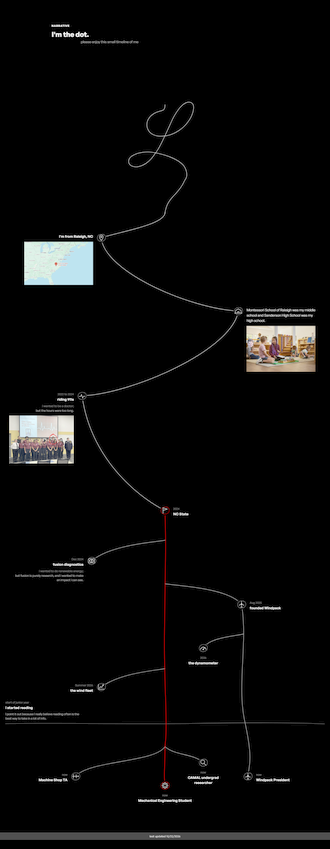
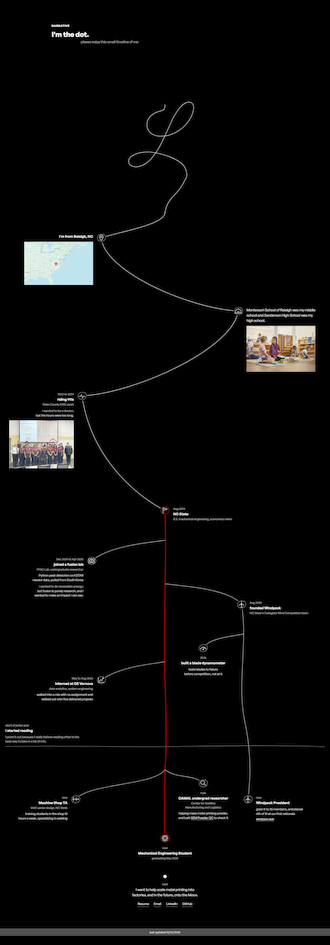
Tell recruiters where and what at each narrative stop
Every stop on the timeline now says where it happened and as what, plus one
fact from the resume: KSTAR data at the FPAC lab, 35 members and 6th of 10 at
Windpack, a dynamometer that tests blades to failure before competition, and
the GE Vernova internship, which "the wind fleet" never named. The titles that
were placeholders now say what happened. My own lines are unchanged.

It now ends with the dot again, where I am headed (the line from the top of the
resume), and Resume, Email, LinkedIn and GitHub, so the story finishes on
something to do. Dates and the first line of each turn move up from faint grey,
which was under 3:1 on black. Narrative minimap retaken for the longer panel.

diff --git a/index.html b/index.html
@@ -192,7 +192,7 @@
   </label>
 
   <div class="minimap" aria-hidden="true">
-    <img class="mm-shot" src="/assets/minimap/narrative.png" width="330" height="849" alt="">
+    <img class="mm-shot" src="/assets/minimap/narrative.png" width="330" height="945" alt="">
     <span class="mm-view"></span>
   </div>
 </div>
@@ -228,18 +228,18 @@
   </section>
 
   <div class="tl">
-    <div class="tl-field" style="--h: 2610">
+    <div class="tl-field" style="--h: 2850">
 
-      <svg class="tl-lines" viewBox="0 0 100 2610" preserveAspectRatio="none" fill="none" aria-hidden="true">
-        <path class="tl-rule" d="M0 2230 C 20 2226, 40 2234, 60 2229 S 90 2226, 100 2231"/>
+      <svg class="tl-lines" viewBox="0 0 100 2850" preserveAspectRatio="none" fill="none" aria-hidden="true">
+        <path class="tl-rule" d="M0 2330 C 20 2326, 40 2334, 60 2329 S 90 2326, 100 2331"/>
         <path class="tl-walk" d="M50 0 C 50 50, 38 78, 30 110 C 31 260, 58 420, 73 430 C 71 600, 40 790, 24 800 C 27 1100, 44 1260, 50 1300"/>
         <path class="tl-branch" d="M50 1430 C 46 1440, 33 1450, 27 1520"/>
-        <path class="tl-branch" d="M50 1620 C 55 1630, 70 1640, 74 1710 C 76 1880, 72.5 2060, 75 2220 S 76.5 2400, 76 2460"/>
+        <path class="tl-branch" d="M50 1620 C 55 1630, 70 1640, 74 1710 C 76 1880, 72.5 2060, 75 2220 S 76.5 2500, 76 2560"/>
         <path class="tl-branch" d="M74.65 1839 C 71 1850, 64 1855, 62 1900"/>
-        <path class="tl-branch" d="M50 1990 C 46 2000, 36 2010, 30 2070"/>
-        <path class="tl-branch" d="M50 2330 C 47 2400, 26 2390, 22 2460"/>
-        <path class="tl-branch" d="M50 2330 C 53 2370, 59 2360, 62 2400"/>
-        <path class="tl-spine" d="M50 1300 C 50.6 1540, 49.4 1790, 50 2040 S 50.3 2280, 50 2330 C 50 2400, 49.6 2460, 50 2500"/>
+        <path class="tl-branch" d="M50 1960 C 46 1970, 36 1980, 30 2040"/>
+        <path class="tl-branch" d="M50 2430 C 47 2500, 26 2490, 22 2560"/>
+        <path class="tl-branch" d="M50 2430 C 53 2470, 59 2450, 62 2490"/>
+        <path class="tl-spine" d="M50 1300 C 50.6 1540, 49.4 1790, 50 2040 S 50.3 2380, 50 2430 C 50 2520, 49.6 2650, 50 2730"/>
       </svg>
 
       <section class="tl-beat side-l" style="--x: 30; --y: 110">
@@ -278,6 +278,7 @@
         <div class="tl-body">
           <p class="tl-year">2022 to 2024</p>
           <h2>riding 911s</h2>
+          <p class="tl-org">Wake County EMS cadet</p>
           <div class="tl-turn"><p>i wanted to be a doctor;</p><p class="tl-but">but the hours were too long.</p></div>
           <img class="tl-pic" src="/assets/covers/ems-cadets.jpg" width="1200" height="888" loading="lazy"
                alt="Wake County EMS Cadet Program class of 2022, with me circled in red at the back">
@@ -291,8 +292,9 @@
           </svg>
         </span>
         <div class="tl-body">
-          <p class="tl-year">2024</p>
+          <p class="tl-year">Aug 2024</p>
           <h2>NC State</h2>
+          <p class="tl-org">B.S. mechanical engineering, economics minor</p>
         </div>
       </section>
       <section class="tl-beat side-l ncsu" style="--x: 27; --y: 1520">
@@ -303,8 +305,10 @@
           </svg>
         </span>
         <div class="tl-body">
-          <p class="tl-year">Dec 2024</p>
-          <h2>fusion diagnostics</h2>
+          <p class="tl-year">Dec 2024 to Apr 2025</p>
+          <h2>joined a fusion lab</h2>
+          <p class="tl-org">FPAC Lab, undergraduate researcher</p>
+          <p class="tl-fact">Python peak detection on KSTAR reactor data, pulled from South Korea</p>
           <div class="tl-turn"><p>i wanted to do renewable energy;</p><p class="tl-but">but fusion is purely research, and i wanted to make an impact i can see.</p></div>
         </div>
       </section>
@@ -318,6 +322,7 @@
         <div class="tl-body">
           <p class="tl-year">Aug 2025</p>
           <h2>founded Windpack</h2>
+          <p class="tl-org">NC State's Collegiate Wind Competition team</p>
         </div>
       </section>
       <section class="tl-beat below narrow ncsu" style="--x: 62; --y: 1900">
@@ -329,10 +334,11 @@
         </span>
         <div class="tl-body">
           <p class="tl-year">2026</p>
-          <h2>the dynamometer</h2>
+          <h2>built a blade dynamometer</h2>
+          <p class="tl-fact">tests blades to failure before competition, not at it</p>
         </div>
       </section>
-      <section class="tl-beat side-l ncsu" style="--x: 30; --y: 2070">
+      <section class="tl-beat side-l ncsu" style="--x: 30; --y: 2040">
         <span class="tl-node">
           <svg viewBox="0 0 40 40" fill="none" role="img" aria-label="a rising plot">
             <g class="tl-ring"><path d="M27 6.2 C 35 8.6, 38.4 16, 36.2 23.4 C 34 31, 25.6 35.4, 17.2 34.4 C 8.8 33.4, 3.4 27, 4.4 19 C 5.4 11.2, 12.6 5.8, 21 6 C 24 6.1, 27.2 6.8, 29.6 8"/></g>
@@ -340,16 +346,18 @@
           </svg>
         </span>
         <div class="tl-body">
-          <p class="tl-year">Summer 2026</p>
-          <h2>the wind fleet</h2>
+          <p class="tl-year">May to Aug 2026</p>
+          <h2>interned at GE Vernova</h2>
+          <p class="tl-org">data analytics, system engineering</p>
+          <p class="tl-fact">walked into a role with no assignment and walked out with five delivered projects</p>
         </div>
       </section>
-      <div class="tl-reading" style="--y: 2230">
+      <div class="tl-reading" style="--y: 2330">
         <p class="tl-year">start of junior year</p>
         <h2>i started reading</h2>
         <p class="tl-note">I point it out because I really believe reading often is the best way to take in a lot of info.</p>
       </div>
-      <section class="tl-beat side-l ncsu" style="--x: 22; --y: 2460">
+      <section class="tl-beat side-l ncsu" style="--x: 22; --y: 2560">
         <span class="tl-node">
           <svg viewBox="0 0 40 40" fill="none" role="img" aria-label="a pair of calipers">
             <g class="tl-ring"><path d="M27 6.2 C 35 8.6, 38.4 16, 36.2 23.4 C 34 31, 25.6 35.4, 17.2 34.4 C 8.8 33.4, 3.4 27, 4.4 19 C 5.4 11.2, 12.6 5.8, 21 6 C 24 6.1, 27.2 6.8, 29.6 8"/></g>
@@ -359,9 +367,11 @@
         <div class="tl-body">
           <p class="tl-year">now</p>
           <h2>Machine Shop TA</h2>
+          <p class="tl-org">MAE senior design, NC State</p>
+          <p class="tl-fact">training students in the shop 10 hours a week, specializing in welding</p>
         </div>
       </section>
-      <section class="tl-beat below narrow ncsu" style="--x: 62; --y: 2400">
+      <section class="tl-beat below narrow ncsu" style="--x: 62; --y: 2490">
         <span class="tl-node">
           <svg viewBox="0 0 40 40" fill="none" role="img" aria-label="a magnifying glass">
             <g class="tl-ring"><path d="M27 6.2 C 35 8.6, 38.4 16, 36.2 23.4 C 34 31, 25.6 35.4, 17.2 34.4 C 8.8 33.4, 3.4 27, 4.4 19 C 5.4 11.2, 12.6 5.8, 21 6 C 24 6.1, 27.2 6.8, 29.6 8"/></g>
@@ -371,9 +381,11 @@
         <div class="tl-body">
           <p class="tl-year">now</p>
           <h2>CAMAL undergrad researcher</h2>
+          <p class="tl-org">Center for Additive Manufacturing and Logistics</p>
+          <p class="tl-fact">helping make metal printing powder, and built <a href="/projects/sem-powder.html">SEM Powder QC</a> to check it</p>
         </div>
       </section>
-      <section class="tl-beat side-r ncsu" style="--x: 76; --y: 2460">
+      <section class="tl-beat side-r ncsu" style="--x: 76; --y: 2560">
         <span class="tl-node">
           <svg viewBox="0 0 40 40" fill="none" role="img" aria-label="a wind turbine">
             <g class="tl-ring"><path d="M27 6.2 C 35 8.6, 38.4 16, 36.2 23.4 C 34 31, 25.6 35.4, 17.2 34.4 C 8.8 33.4, 3.4 27, 4.4 19 C 5.4 11.2, 12.6 5.8, 21 6 C 24 6.1, 27.2 6.8, 29.6 8"/></g>
@@ -383,9 +395,11 @@
         <div class="tl-body">
           <p class="tl-year">now</p>
           <h2>Windpack President</h2>
+          <p class="tl-fact">grew it to 35 members, and placed 6th of 10 at our first nationals</p>
+          <p class="tl-link"><a href="https://windpack.club" target="_blank" rel="noopener">windpack.club</a></p>
         </div>
       </section>
-      <section class="tl-beat below ncsu on-spine" style="--x: 50; --y: 2500">
+      <section class="tl-beat below ncsu on-spine" style="--x: 50; --y: 2730">
         <span class="tl-node">
           <svg viewBox="0 0 40 40" fill="none" role="img" aria-label="a gear">
             <g class="tl-ring"><path d="M27 6.2 C 35 8.6, 38.4 16, 36.2 23.4 C 34 31, 25.6 35.4, 17.2 34.4 C 8.8 33.4, 3.4 27, 4.4 19 C 5.4 11.2, 12.6 5.8, 21 6 C 24 6.1, 27.2 6.8, 29.6 8"/></g>
@@ -395,10 +409,22 @@
         <div class="tl-body">
           <p class="tl-year">now</p>
           <h2>Mechanical Engineering Student</h2>
+          <p class="tl-org">graduating May 2028</p>
         </div>
       </section>
 
     </div>
+    <section class="tl-end" aria-label="What comes next">
+      <span class="tl-dot" aria-hidden="true"></span>
+      <p class="tl-year">next</p>
+      <p class="tl-say">I want to help scale metal printing into factories, and in the future, onto the Moon.</p>
+      <nav class="links" aria-label="Contact">
+        <a href="/assets/Luke-Caffarey-Resume.pdf" target="_blank" rel="noopener">Resume</a>
+        <a href="mailto:lacaffar@ncsu.edu">Email</a>
+        <a href="https://www.linkedin.com/in/looeke" target="_blank" rel="noopener">LinkedIn</a>
+        <a href="https://github.com/lacaffar" target="_blank" rel="noopener">GitHub</a>
+      </nav>
+    </section>
   </div>
 </main>
 

diff --git a/assets/css/site.css b/assets/css/site.css
@@ -699,7 +699,7 @@ body.split { overflow: hidden; }
    left over, both measured off the real panels at a typical window height. */
 
 #portfolio .mm-view { height: 34px; --travel: 95px; }
-#narrative .mm-view { height: 29px; --travel: 85px; }
+#narrative .mm-view { height: 29px; --travel: 97px; }
 
 @keyframes mm-run {
   from { transform: translateY(0); }
@@ -1080,7 +1080,7 @@ body.split { overflow: hidden; }
    joined to nothing on purpose.
    ------------------------------------------------------------------------ */
 
-:root { --wolf: #CC0000; }
+:root { --wolf: #CC0000; --soft-text: rgba(240, 240, 240, 0.82); }
 
 .line { padding: 88px 0 96px; }
 
@@ -1170,14 +1170,18 @@ body.split { overflow: hidden; }
   text-align: center;
 }
 
-/* squeezed between two lines, so it gets less room either side */
-.below.narrow .tl-body { left: -100px; width: 200px; }
+/* squeezed between two lines, so it gets less room either side: a fifth of
+   the field, which still clears both lines down to the narrowest desktop */
+.below.narrow .tl-body { --w: min(240px, 20cqw); left: calc(var(--w) / -2); width: var(--w); }
+
+/* the timeline is read on black at 12 and 13px, so nothing in it goes below
+   --muted: --faint is under 3:1 against the page and was hard to read */
 
 .tl-year {
   font-size: 12px;
   font-weight: 400;
   letter-spacing: 0.02em;
-  color: var(--faint);
+  color: var(--muted);
   margin: 0 0 3px;
 }
 
@@ -1196,17 +1200,55 @@ body.split { overflow: hidden; }
   margin: 0;
 }
 
-.tl-turn { margin-top: 8px; }
+/* where it happened, and as what: the line a recruiter is looking for */
+
+.tl-org {
+  font-size: 12px;
+  line-height: 1.5;
+  letter-spacing: 0.01em;
+  color: var(--muted);
+  margin: 2px 0 0;
+}
+
+/* one thing that happened there, the kind you can check against the resume */
+
+.tl-fact {
+  font-size: 13px;
+  line-height: 1.5;
+  letter-spacing: 0.005em;
+  color: var(--soft-text);
+  margin: 7px 0 0;
+}
+
+.tl-link { font-size: 12px; line-height: 1.5; margin: 5px 0 0; }
+
+.tl-fact a,
+.tl-link a {
+  color: var(--text);
+  border-bottom: 1px solid var(--muted);
+  transition: border-color 0.15s ease;
+}
+
+.tl-fact a:hover,
+.tl-fact a:focus-visible,
+.tl-link a:hover,
+.tl-link a:focus-visible { border-bottom-color: var(--text); }
+
+/* short lines in narrow columns: even them out rather than leave one word
+   hanging on the last line */
+.tl h2, .tl-org, .tl-fact, .tl-turn p, .tl-end .tl-say { text-wrap: balance; }
+
+.tl-turn { margin-top: 9px; }
 
 .tl-turn p {
   font-size: 13px;
   line-height: 1.5;
   letter-spacing: 0.005em;
-  color: var(--faint);
+  color: var(--muted);
   margin: 0;
 }
 
-.tl-turn .tl-but { color: var(--muted); }
+.tl-turn .tl-but { color: var(--soft-text); }
 
 .tl-pic {
   display: block;
@@ -1230,6 +1272,34 @@ body.split { overflow: hidden; }
   color: var(--muted);
   margin: 6px 0 0;
 }
+
+/* the end: the dot turns up again under the last stop, with where it is
+   headed and how to reach me, so the story finishes on something to do */
+
+.tl-end {
+  max-width: 440px;
+  margin: 40px auto 0;
+  padding: 0 24px;
+  text-align: center;
+}
+
+.tl-dot {
+  display: block;
+  width: 14px;
+  height: 14px;
+  margin: 0 auto 18px;
+  border-radius: 50%;
+  background: var(--text);
+}
+
+.tl-end .tl-say { margin: 0 0 18px; }
+
+/* these are the thing to do at the end, so they look like links before you
+   hover, not only after */
+.tl-end .links { justify-content: center; gap: 0 22px; font-size: 13px; }
+.tl-end .links a { border-bottom-color: rgba(240, 240, 240, 0.35); }
+.tl-end .links a:hover,
+.tl-end .links a:focus-visible { border-bottom-color: var(--text); }
 
 /* --- headers clear the switch --------------------------------------------- */
 
@@ -1307,6 +1377,11 @@ body.split { overflow: hidden; }
     position: static; width: auto; text-align: left; padding-top: 6px; }
   .tl-reading { position: relative; left: auto; bottom: auto; width: auto;
                 margin: 0 0 46px; padding: 0 0 14px 58px; border-bottom: 1px solid var(--rule); }
+  .below.narrow .tl-body { --w: auto; }
+  /* the end sits on the rail like a stop, the dot where a node would be */
+  .tl-end { position: relative; max-width: none; margin: 0; padding: 0 0 0 58px; text-align: left; }
+  .tl-dot { position: absolute; left: 15px; top: 2px; margin: 0; }
+  .tl-end .links { justify-content: flex-start; }
   .nv-aside { margin-left: 64px; }
 
   .ov-stage { transform: scale(0.78); transform-origin: 50% 0; height: 500px; }

diff --git a/README.md b/README.md
@@ -52,7 +52,16 @@ which also writes the paper and cork textures in `assets/moon/` and the link pre
 `assets/covers/moon-board.jpg`.
 
 The index is two panels driven by one hidden checkbox and no script: `#portfolio` is the
-project list, `#narrative` is the timeline (year and title only, no prose).
+project list, `#narrative` is the timeline. Each stop on it is short and built to be
+scanned: when, what happened, where and as what, then one fact from the resume, and my
+own "i wanted; but" line where there is one. It ends with where I am headed and the four
+ways to reach me. The whole block is written by
+
+```
+python .claude/make_timeline.py
+```
+
+so change the table in that script and rerun it rather than editing `index.html` by hand.
 
 The map in each bottom corner is a **photograph of that panel**, not a drawing of it, and
 not a link: `assets/minimap/{portfolio,narrative}.png`. Retake both after any visible
